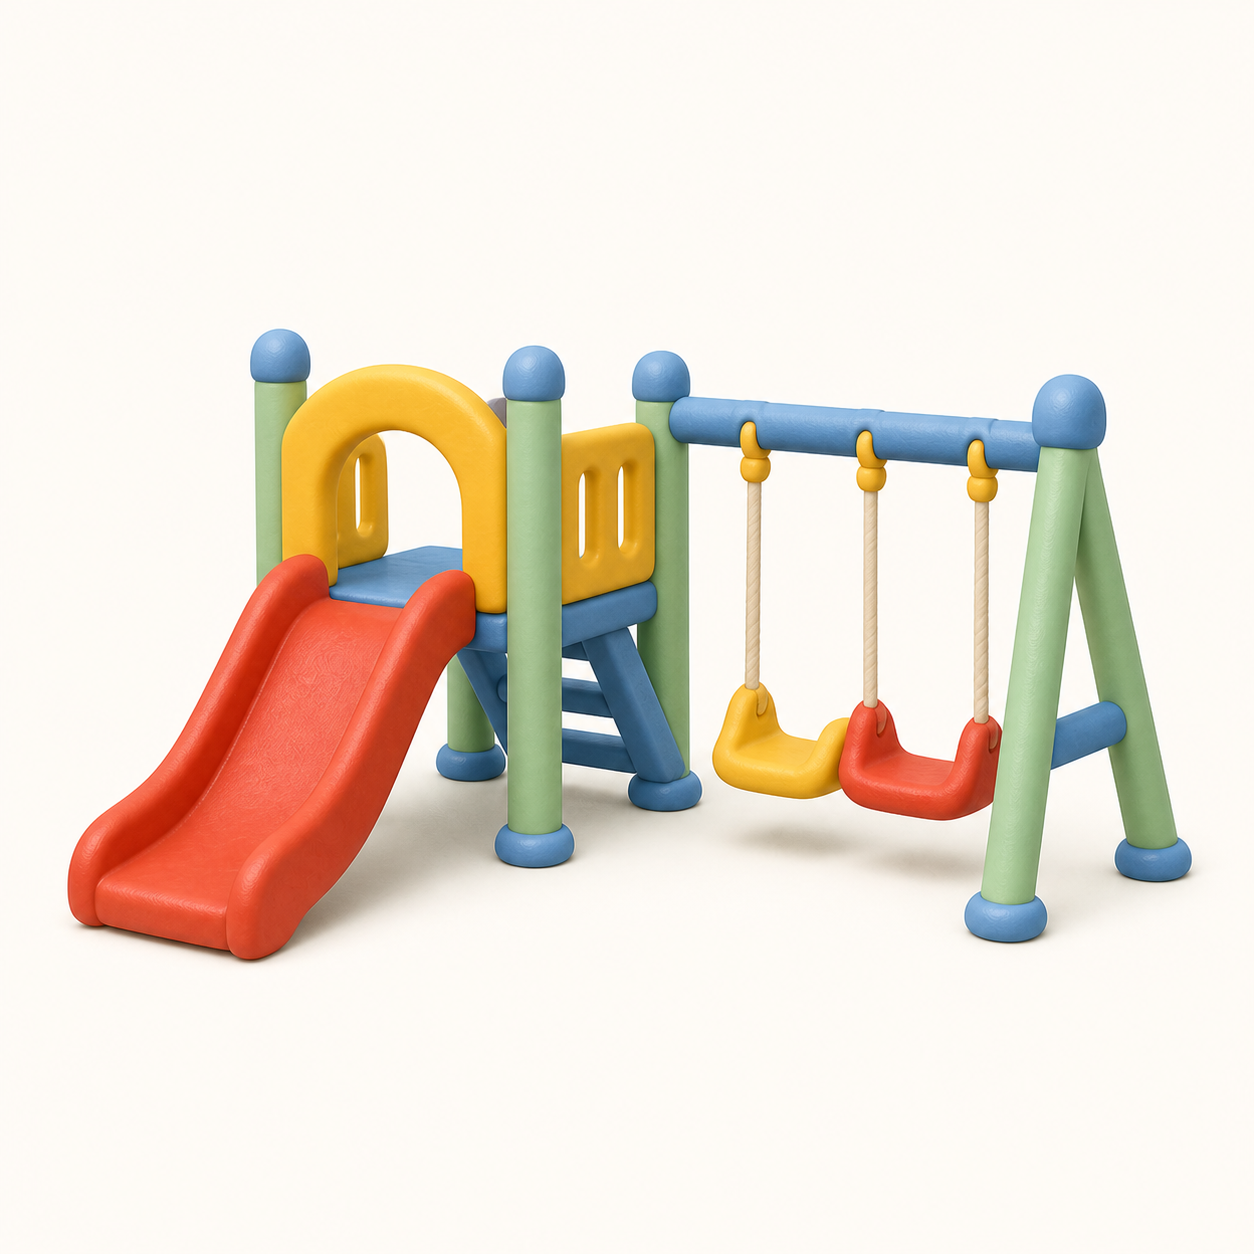
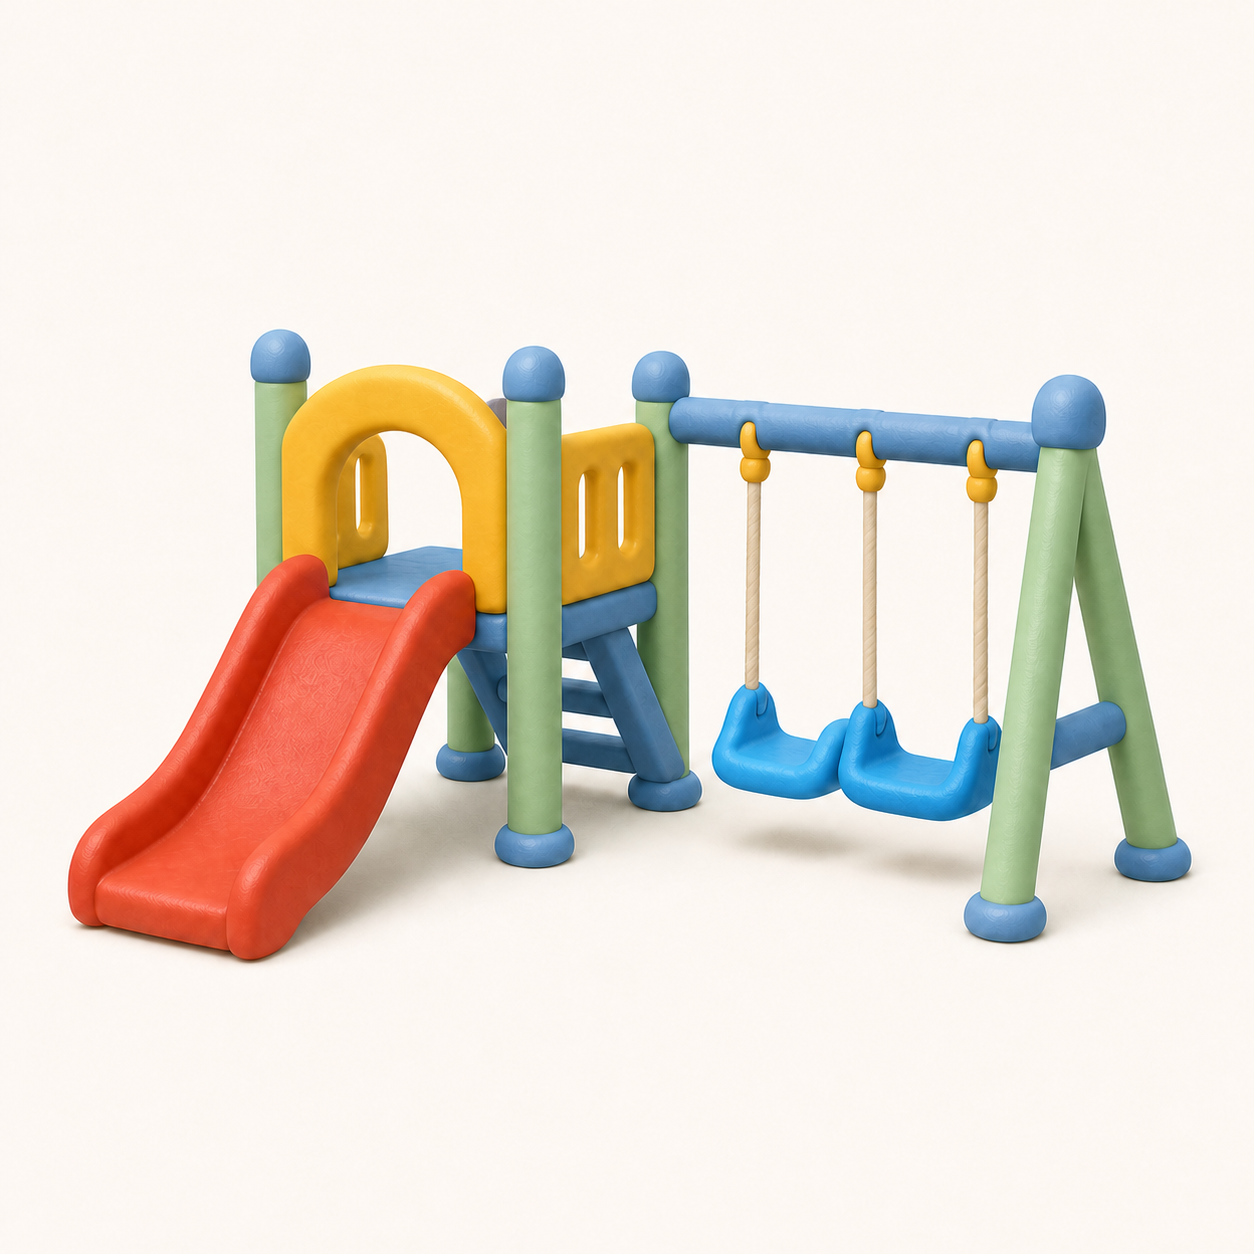
그네 파란색 + 음성 끝까지 또렷하게
- aac-playground.png: 그네 좌석 2개를 파란색으로(나머지 유지)
- 음성 18개 재생성: 안정도↑(0.72)+speechnorm으로 끝 음절 볼륨 보강, 끝 묵음 정리 → 말끝 안 흐림
- sw v6

Changed region(s): [[0.5598, 0.4043, 0.8086, 0.6531]]

diff --git a/sw.js b/sw.js
@@ -1,6 +1,6 @@
 // 마음톡 service worker — 오프라인 캐시
 // 앱을 배포할 때마다 VERSION 을 올려야 새 버전이 사용자에게 반영됩니다.
-const VERSION = "maeumtalk-v5";
+const VERSION = "maeumtalk-v6";
 const VOICE_IDS = [
   "no","help","toilet","more","water","milk","gummy","rice","bear",
   "book","outside","rest","yes","wait","happy","sad","stop","pain"